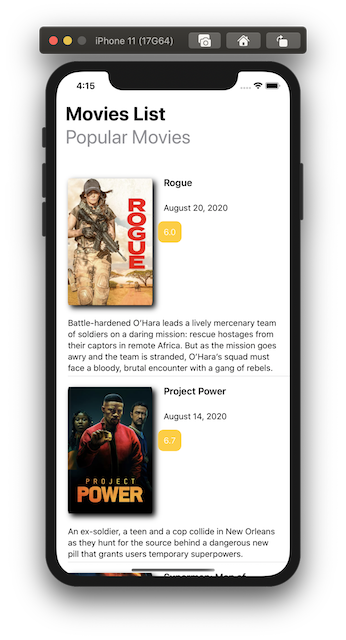
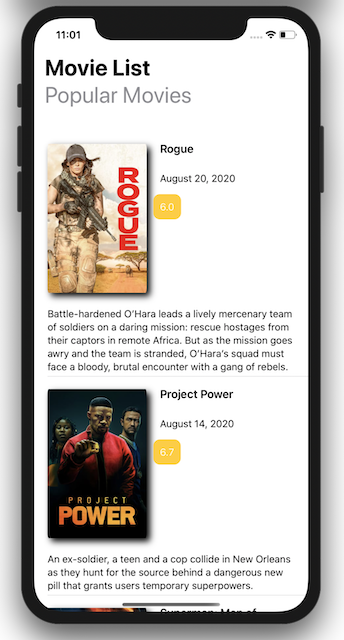
update readme

diff --git a/Movie List/View/MoviesListHeader.swift b/Movie List/View/MoviesListHeader.swift
@@ -12,7 +12,7 @@ struct MoviesListHeader: View {
     var body: some View {
         VStack(alignment: .leading, spacing: 0) {
             HStack {
-                Text("Movies List").bold()
+                Text("Movie List").bold()
                 Spacer()
             }
             .foregroundColor(.black)

diff --git a/Movie List/Utils/Api.swift b/Movie List/Utils/Api.swift
@@ -9,7 +9,7 @@
 import Foundation
 
 struct API {
-    static let key = "dea6d5ed2822c14b8343dc1e5babc6c4"
+    static let key = "ENTER_YOUR_KEY_HERE"
 }
  
 

diff --git a/Readme.Md b/Readme.Md
@@ -1,7 +1,12 @@
 # Movie List
  
-Make move list using MVVM architecture design pattern
+Make movie list using MVVM architecture design pattern <br>
+
+Based on curiosity to gain insight into design patterns in app development, especially iOS also I want to Improve my object-oriented skills & learning to improve code quality. I think there is so many architectures out there. All of those architectures have, the pros and the cons, but they are all designed to make the code simpler and clearer. In this challenge I want learnt using MVVM architecture
+Model-View-ViewModel (MVVM). MVVM is an architecture that focuses on the separation of development of user interface from development of the business logic.
+
 ![MVVM](Documentation/mvvm.png)
+>MVVM diagram made by yours truly
 
 ## What i  learn
 
@@ -11,7 +16,23 @@ Make move list using MVVM architecture design pattern
 * Using ObservableObject protocol
 * Display data to the user based on the view model
 
+## How to get the API key 
+* Go to the [https://www.themoviedb.org]("https://www.themoviedb.org") page, then click Register.
+* After API Key has been created successfully, and now let's try to test the get film data request using the API Key that you created earlier.
+* Paste the key in Api.swift file in Utils folder
+```
+struct API {
+    static let key = "YOUR_KEY_HERE"
+}
+```
 
 ## Screenshot
 ![Iphone 11](Documentation/iphone11.png)
 ![Iphone SE](Documentation/iphoneSE.png)
+
+## Further Reading
+
+[Data Binding in MVVM on iOS]("https://medium.com/flawless-app-stories/data-binding-in-mvvm-on-ios-714eb15e3913") <br>
+[Observable object]("https://www.hackingwithswift.com/quick-◊start/swiftui/observable-objects-environment-objects-and-published") <br>
+[MVVM playlist tutorial]("https://www.youtube.com/playlist?list=PLbrKvTeCrFAf3BBqfGR9B9C5XXAVa6D4r")<br>
+[URL Image SwiftUI View]("https://medium.com/@bradysmurphy/day-14-image-loader-bf0a383f09da")
